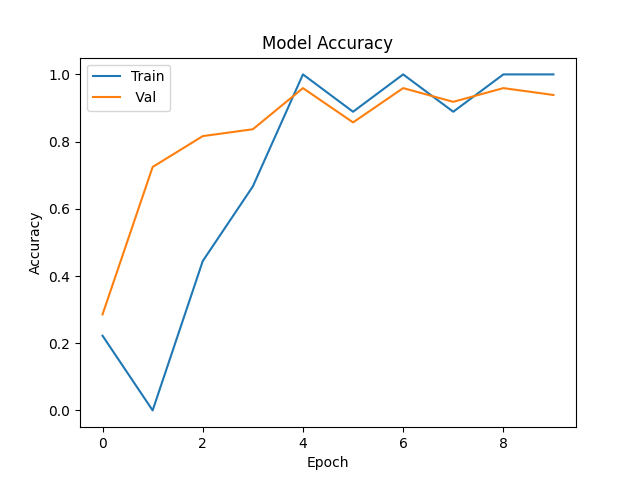
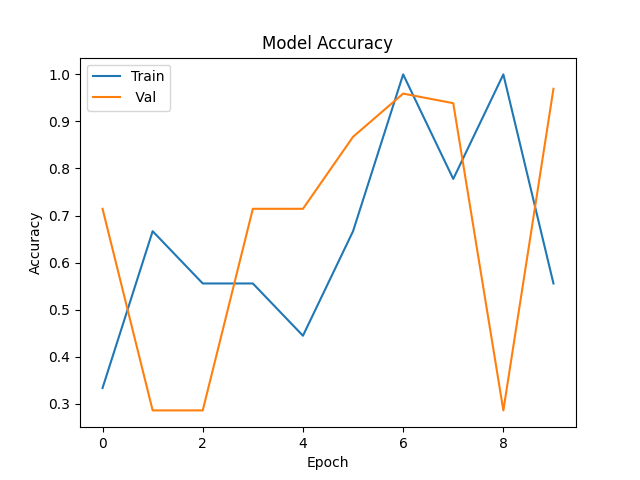
edits

diff --git a/mysite/templates/base.html b/mysite/templates/base.html
@@ -10,7 +10,6 @@
 <body>
   <nav class="navbar navbar-expand-lg navbar-light mb-4" style="background-color:#1a2449">
     <div class="container">
-      <img src="Untitled1.3.jpg" alt="logo">
       <button class="navbar-toggler" type="button" data-toggle="collapse" data-target="#navbarSupportedContent" aria-controls="navbarSupportedContent" aria-expanded="false" aria-label="Toggle navigation">
         <span class="navbar-toggler-icon"></span>
       </button>

diff --git a/main.py b/main.py
@@ -12,8 +12,8 @@ def covidTest(filePath):
     train = ImageDataGenerator(rescale= 1/255)
     validation = ImageDataGenerator(rescale= 1/255)
 
-    train_dataset = train.flow_from_directory('Images/train_dataset', target_size= (200,200), batch_size = 500, class_mode = 'binary')
-    validation_dataset = validation.flow_from_directory('Images/validation', target_size= (200,200), batch_size = 500, class_mode = 'binary')
+    train_dataset = train.flow_from_directory('Images/train_dataset', target_size= (200,200), batch_size = 3, class_mode = 'binary')
+    validation_dataset = validation.flow_from_directory('Images/validation', target_size= (200,200), batch_size = 3, class_mode = 'binary')
 
     model = tf.keras.models.Sequential([ tf.keras.layers.Conv2D(16,(3,3), activation = 'relu', input_shape = (200,200,3)), 
     tf.keras.layers.MaxPool2D(2,2), 
@@ -23,7 +23,7 @@ def covidTest(filePath):
 
     model.compile(loss='binary_crossentropy', optimizer = RMSprop(lr=0.001), metrics = ['accuracy'])
 
-    model_fit=model.fit(train_dataset, steps_per_epoch = 250, epochs= 10, validation_data = validation_dataset)
+    model_fit=model.fit(train_dataset, steps_per_epoch = 3, epochs= 10, validation_data = validation_dataset)
 
     print(validation_dataset.class_indices)
 
